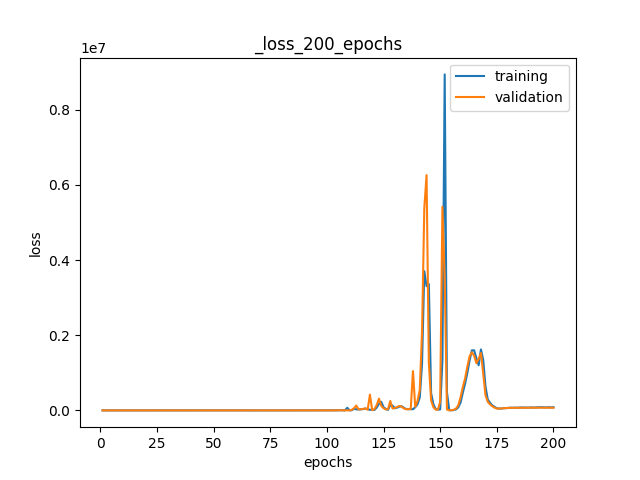
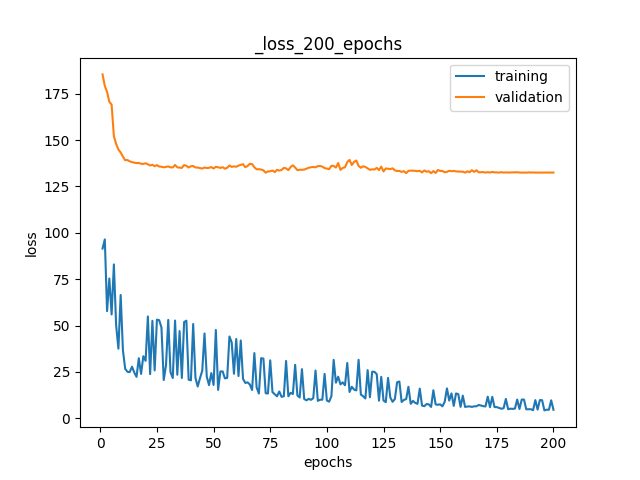
training working for clear sky

diff --git a/epce_train_celine_32.py b/epce_train_celine_32.py
@@ -2,7 +2,7 @@ import torch
 from torch import nn
 from torch.utils.data import DataLoader
 import EPCE_ok_32
-#from EPCE import VGGLoss
+from EPCE_ok_32 import VGGLoss
 import glob
 from torchvision import transforms
 from torch.utils.data import DataLoader, Dataset
@@ -125,8 +125,8 @@ model = EPCE_ok_32.PPVisionTransformer()
 # define the loss function
 l1 = torch.nn.L1Loss()
 # TODO: could be 
-#perceptual_loss = VGGLoss()
-perceptual_loss = EPCE_ok_32.VGGLoss()
+perceptual_loss = VGGLoss()
+#perceptual_loss = EPCE_ok_32.VGGLoss()
 # define the optimizer
 # TODO: could be
 #optimizer = torch.optim.Adam(model.parameters(), lr=opt.lr, betas=(0.9, 0.999))
@@ -258,14 +258,14 @@ for epoch in range(opt.epochs):
         #output_true = output_true.to(dtype=torch.half)
 
         #print('batch size:', opt.batch_size)
-        print('batch size:', batch_size)
+        #print('batch size:', batch_size)
 
         # forward pass through the model
-        print('cuda before')
-        print_gpu_info
+        #print('cuda before')
+        #print_gpu_info
         output = model(input)
-        print('cuda after')
-        print_gpu_info
+        #print('cuda after')
+        #print_gpu_info
 
         l1_loss = 0
         vgg_loss = 0

diff --git a/EPCE_ok_32.py b/EPCE_ok_32.py
@@ -461,8 +461,8 @@ class LPE(nn.Module):
         return image
 
 class Vgg19(torch.nn.Module):
-    def _init_(self, requires_grad=False):
-        super(Vgg19, self)._init_()
+    def __init__(self, requires_grad=False):
+        super(Vgg19, self).__init__()
         vgg_pretrained_features = models.vgg19(pretrained=True).features
         self.slice1 = torch.nn.Sequential()
         self.slice2 = torch.nn.Sequential()
@@ -482,6 +482,7 @@ class Vgg19(torch.nn.Module):
         if not requires_grad:
             for param in self.parameters():
                 param.requires_grad = False
+
 
     def forward(self, X):
         h_relu1 = self.slice1(X)

diff --git a/epce_train_celine.py b/epce_train_celine.py
@@ -2,7 +2,7 @@ import torch
 from torch import nn
 from torch.utils.data import DataLoader
 import EPCE_ok
-#from EPCE import VGGLoss
+#from EPCE_ok import VGGLoss
 import glob
 from torchvision import transforms
 from torch.utils.data import DataLoader, Dataset
